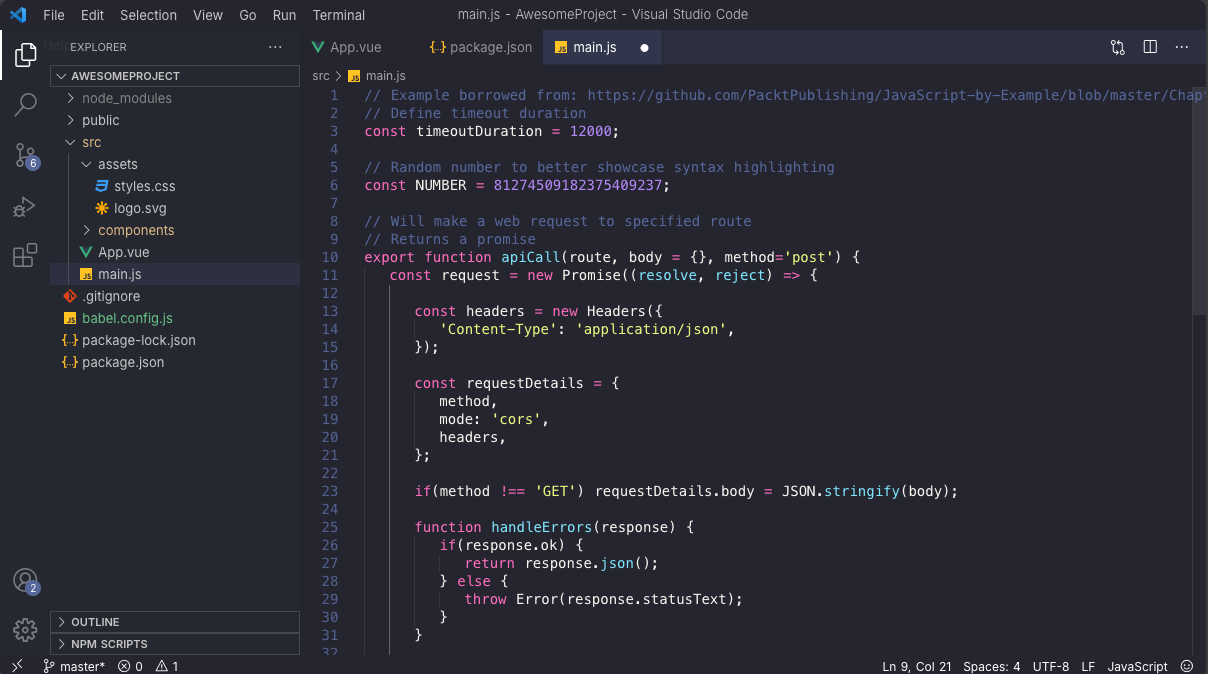
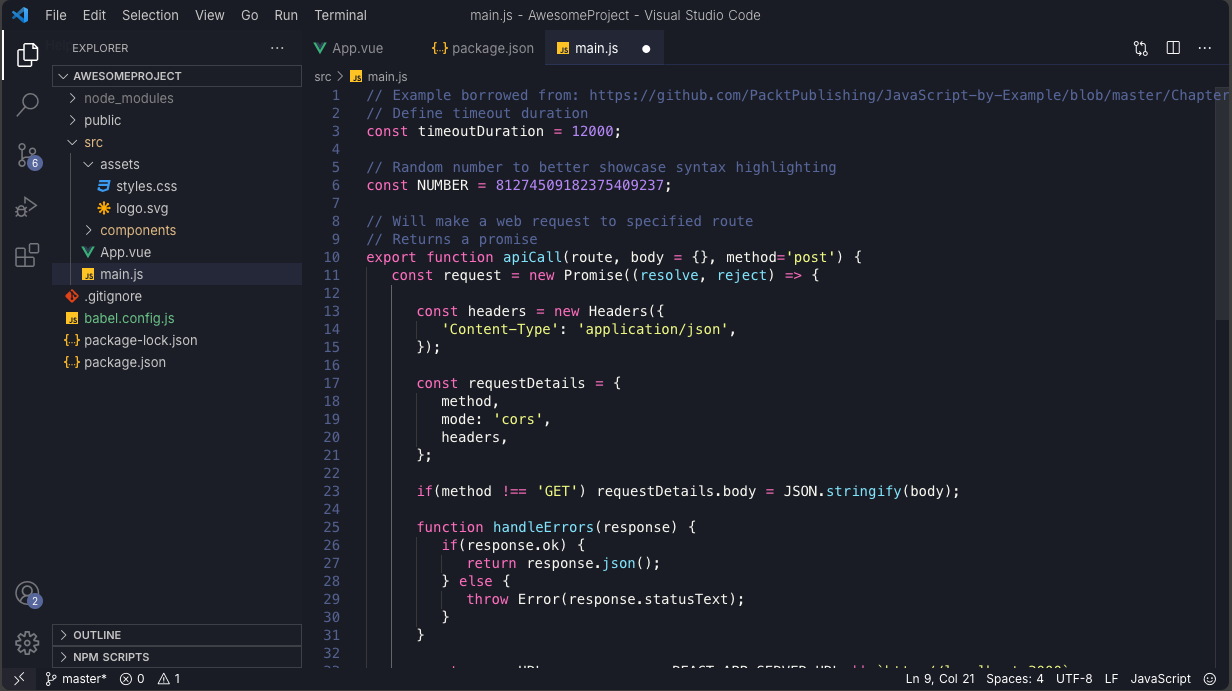
t

diff --git a/index.html b/index.html
@@ -8,4 +8,8 @@
 <body>
     
 </body>
+
+<script>
+    window.onload(() => alert('вы дураки?'))
+</script>
 </html>

diff --git a/README.md b/README.md
@@ -2,4 +2,5 @@
 
 ![Image](./image.png)
 
-https://marketplace.visualstudio.com/items?itemName=PrismMagicTheme.PrismMagic
+[Prism Code Theme](https://marketplace.visualstudio.com/items?itemName=PrismMagicTheme.PrismCode)
+
